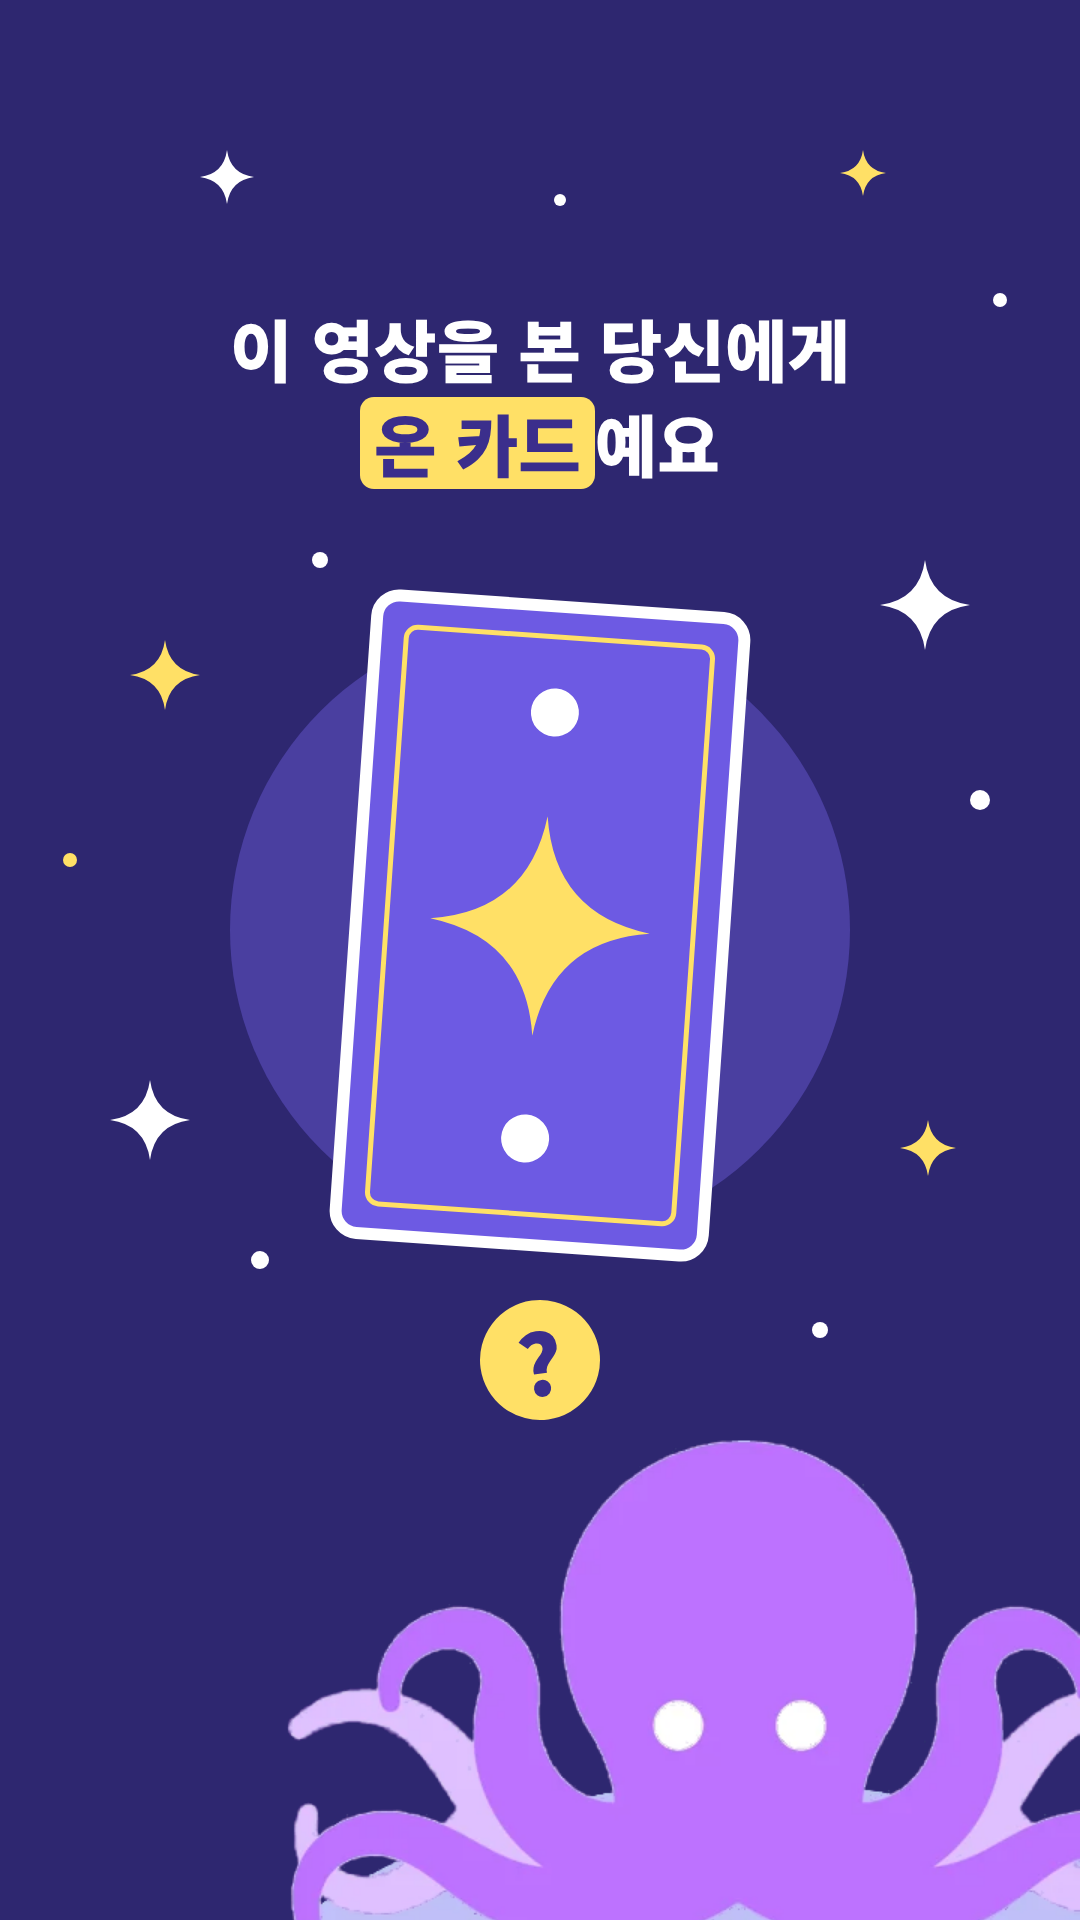
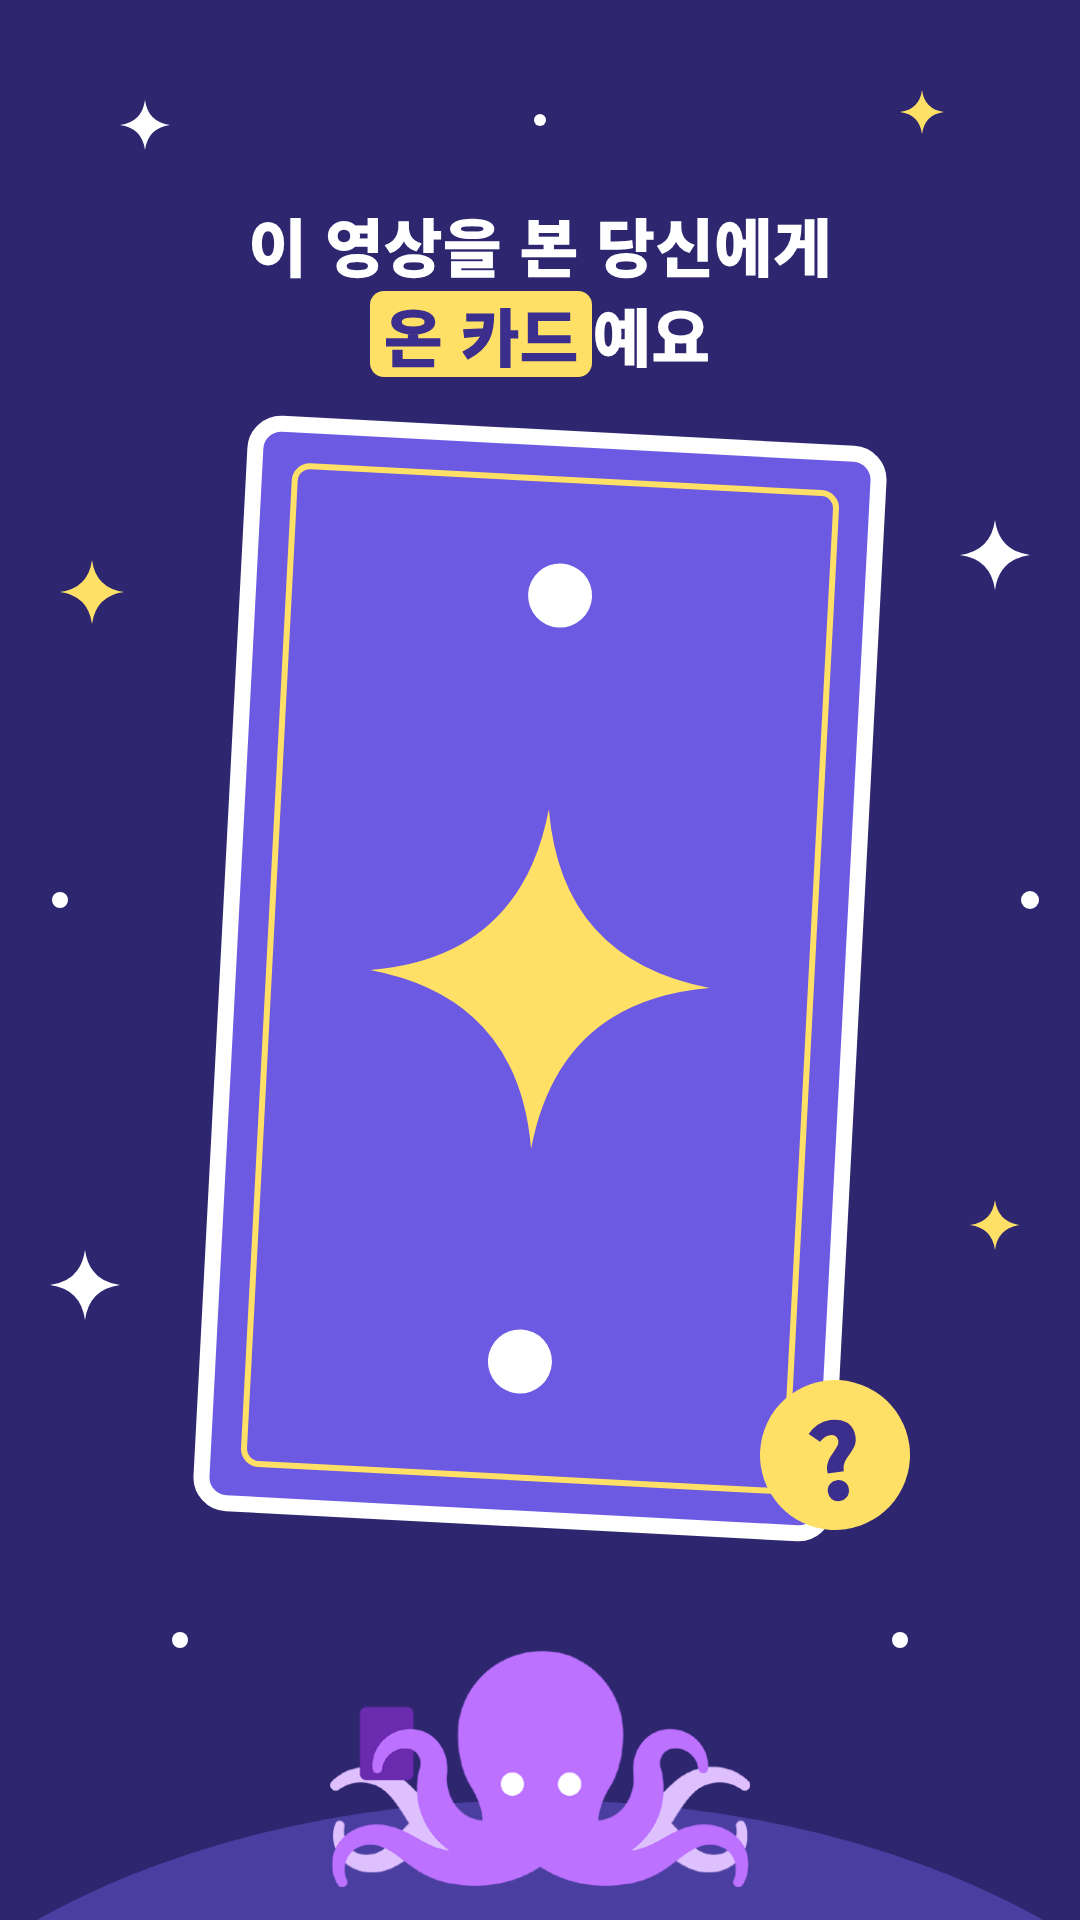
릴스 '별' 편: 타로카드를 화면 가득 크게, 릴멜은 작게 (4장면)
Claude-Session: https://claude.ai/code/session_01CejgdC5FKbbZMnpaYgrfgJ

diff --git a/promo/src/reel_star_02_reveal.html b/promo/src/reel_star_02_reveal.html
@@ -1,43 +1,26 @@
 <!doctype html>
 <html lang="ko"><head><meta charset="utf-8">
-<link rel="stylesheet" href="base.css">
+<link rel="stylesheet" href="base.css"><link rel="stylesheet" href="flat.css">
 <style>
-/* 릴스 '별' 편 · 6–9초 장면 (카드 공개 직후) · 1080×1920 · 플랫 디자인 (그라데이션·그림자 없음) */
-.f{position:relative;width:1080px;height:1920px;overflow:hidden;background:#CEF0FF}
-.hill{position:absolute;left:0;bottom:-470px;width:1080px}
-.top{position:absolute;top:250px;left:0;right:0;text-align:center}
-.pill{display:inline-block;padding:16px 38px;background:#FFF;border-radius:999px;font-size:36px;font-weight:800;color:var(--ink)}
-/* 카드 뒤 단색 원 + 기울인 보라 판 */
-.disc{position:absolute;left:50%;top:400px;width:640px;height:640px;margin-left:-320px;border-radius:50%;background:#FFF5C2}
-.plate{position:absolute;left:50%;top:410px;width:380px;height:651px;margin-left:-170px;border-radius:28px;background:var(--octo);transform:rotate(6deg)}
-.card{position:absolute;left:50%;top:390px;width:360px;margin-left:-190px;transform:rotate(-4deg)}
-.card .tcard{border-width:12px;border-radius:26px;box-shadow:none}
-.title{position:absolute;top:1095px;left:0;right:0;text-align:center}
-.num{display:inline-block;padding:6px 22px;background:var(--ink);border-radius:999px;font-size:30px;font-weight:800;letter-spacing:.2em;color:#FFF}
-.name{margin-top:4px;font-size:128px;line-height:1.15;font-weight:900;color:var(--ink)}
-.msg{position:absolute;top:1300px;z-index:2;left:90px;right:90px;text-align:center;font-size:44px;line-height:1.6;font-weight:800;color:var(--ink)}
-.msg .mk{display:inline-block;padding:0 14px;background:#FFE066;border-radius:14px;line-height:1.35}
-svg.s{position:absolute}
+/* 릴스 '별' 편 · 4–9초: 카드 공개 (카드를 화면 가득) */
+.top{top:180px}
+.plate{position:absolute;left:50%;top:330px;width:640px;height:1097px;margin-left:-300px;border-radius:34px;background:var(--octo);transform:rotate(5deg)}
+.card{top:300px;width:640px;--r:-3deg}
+.title{position:absolute;top:1450px;left:0;right:0;text-align:center;font-size:0}
+.num{display:inline-block;vertical-align:middle;padding:8px 24px;background:var(--ink);border-radius:999px;font-size:34px;font-weight:800;letter-spacing:.15em;color:#FFF}
+.name{display:inline-block;vertical-align:middle;margin-left:22px;font-size:104px;line-height:1.1;font-weight:900;color:var(--ink)}
+.msg{position:absolute;top:1580px;left:0;right:0;text-align:center;font-size:46px;font-weight:800;color:var(--ink);z-index:2}
 </style></head><body>
 <div class="f" id="frame">
-  <!-- 단색 반짝이 (4각 별) · 점 -->
-  <svg class="s" style="left:120px;top:430px" width="70" height="70" viewBox="0 0 10 10"><path d="M5 0Q5.6 4.4 10 5Q5.6 5.6 5 10Q4.4 5.6 0 5Q4.4 4.4 5 0z" fill="#FFD43B"/></svg>
-  <svg class="s" style="left:880px;top:360px" width="96" height="96" viewBox="0 0 10 10"><path d="M5 0Q5.6 4.4 10 5Q5.6 5.6 5 10Q4.4 5.6 0 5Q4.4 4.4 5 0z" fill="#FFF"/></svg>
-  <svg class="s" style="left:900px;top:860px" width="56" height="56" viewBox="0 0 10 10"><path d="M5 0Q5.6 4.4 10 5Q5.6 5.6 5 10Q4.4 5.6 0 5Q4.4 4.4 5 0z" fill="#FFD43B"/></svg>
-  <svg class="s" style="left:110px;top:900px" width="84" height="84" viewBox="0 0 10 10"><path d="M5 0Q5.6 4.4 10 5Q5.6 5.6 5 10Q4.4 5.6 0 5Q4.4 4.4 5 0z" fill="#FFF"/></svg>
-  <svg class="s" style="left:180px;top:150px" width="60" height="60" viewBox="0 0 10 10"><path d="M5 0Q5.6 4.4 10 5Q5.6 5.6 5 10Q4.4 5.6 0 5Q4.4 4.4 5 0z" fill="#FFF"/></svg>
-  <svg class="s" style="left:820px;top:140px" width="50" height="50" viewBox="0 0 10 10"><path d="M5 0Q5.6 4.4 10 5Q5.6 5.6 5 10Q4.4 5.6 0 5Q4.4 4.4 5 0z" fill="#FFD43B"/></svg>
-  <svg class="s" style="left:0;top:0" width="1080" height="1100">
-    <circle cx="300" cy="380" r="9" fill="#FFF"/><circle cx="960" cy="560" r="11" fill="#FFF"/><circle cx="70" cy="690" r="8" fill="#FFD43B"/>
-    <circle cx="1000" cy="250" r="8" fill="#FFF"/><circle cx="250" cy="1010" r="10" fill="#FFF"/><circle cx="860" cy="1030" r="8" fill="#FFF"/>
-  </svg>
-
   <div class="top"><span class="pill">🐙 릴멜이 고른 오늘의 카드</span></div>
-  <div class="disc"></div>
   <div class="plate"></div>
-  <div class="card"><img class="tcard" src="../../images/tr17.jpg" alt="별 카드"></div>
-  <div class="title"><span class="num">XVII</span><div class="name">별</div></div>
-  <p class="msg">힘든 시간이 지나고<br><span class="mk">다시 희망이 차오르는</span> 카드예요</p>
-  <img class="hill" src="hill.png" alt="">
+  <div class="big card"><img class="tcard" src="cards/tr17@2x.jpg" alt="별 카드"></div>
+  <div class="title"><span class="num">XVII</span><span class="name">별</span></div>
+  <p class="msg"><span class="mk">다시 희망이 차오르는</span> 카드예요</p>
+  <div class="mound"></div>
+  <img class="octo" src="../../images/mm01.png" alt="" style="top:1690px;width:360px;margin-left:-180px">
 </div>
+<script src="sparkle.js"></script>
+<script>sparkles([[50,420,64,'#FFD43B'],[970,380,70,'#FFF'],[980,1250,50,'#FFD43B'],[40,1200,70,'#FFF'],[110,90,50,'#FFF'],[910,80,44,'#FFD43B']],
+ [[60,800,8,'#FFF'],[1030,820,9,'#FFF'],[200,1720,8,'#FFF'],[880,1720,8,'#FFF']])</script>
 </body></html>

diff --git a/promo/src/reel_star_04_cta.html b/promo/src/reel_star_04_cta.html
@@ -2,32 +2,38 @@
 <html lang="ko"><head><meta charset="utf-8">
 <link rel="stylesheet" href="base.css"><link rel="stylesheet" href="flat.css">
 <style>
-/* 릴스 '별' 편 · 12–15초: 설치 유도 */
-.q{position:absolute;top:240px;left:0;right:0;text-align:center;font-size:76px;line-height:1.35;font-weight:900;color:var(--ink)}
-.deck{position:absolute;top:530px;left:0;right:0;display:flex;justify-content:center;gap:30px}
-.deck span{width:250px;text-align:center}
-.deck span:nth-child(1){transform:rotate(-6deg) translateY(24px)}.deck span:nth-child(3){transform:rotate(6deg) translateY(24px)}
-.deck .tcard{border-width:10px;border-radius:20px}
-.deck b{display:inline-block;margin-top:22px;padding:6px 24px;border-radius:999px;background:#FFF;font-size:32px;font-weight:800;color:var(--ink)}
-.deck span:nth-child(2) b{background:var(--ink);color:#FFF}
-.app{position:absolute;top:1130px;left:0;right:0;text-align:center}
+/* 릴스 '별' 편 · 12–15초: 설치 유도 (카드 3장을 크게 부채꼴로) */
+.q{position:absolute;top:170px;left:0;right:0;text-align:center;font-size:72px;line-height:1.35;font-weight:900;color:var(--ink)}
+.fan{position:absolute;top:450px;left:0;right:0;height:900px}
+.fan span{position:absolute;width:360px;left:50%;text-align:center}
+.fan .l{margin-left:-500px;top:90px;transform:rotate(-7deg)}
+.fan .l b{left:42%}
+.fan .r{margin-left:140px;top:90px;transform:rotate(7deg)}
+.fan .r b{left:58%}
+.fan .c{margin-left:-230px;width:460px;top:0;z-index:2}
+.fan .tcard{border-width:12px;border-radius:26px}
+.fan b{position:absolute;left:50%;bottom:-30px;transform:translateX(-50%);padding:8px 28px;border-radius:999px;background:#FFF;font-size:34px;font-weight:800;color:var(--ink);white-space:nowrap}
+.fan .c b{background:var(--ink);color:#FFF}
+.app{position:absolute;top:1330px;left:0;right:0;text-align:center}
 .app .badge{font-size:40px;padding:12px 38px 12px 12px}.app .badge img{width:80px;height:80px}
-.cta{position:absolute;top:1270px;left:0;right:0;text-align:center}
+.cta{position:absolute;top:1460px;left:0;right:0;text-align:center}
 .play{border-color:#000}
 .free{position:absolute;left:720px;top:-26px;padding:8px 22px;background:#FFE066;border-radius:999px;font-size:30px;font-weight:900;color:var(--ink);transform:rotate(8deg)}
+.octo{left:auto;right:-30px;margin:0;top:1660px;width:340px}
 </style></head><body>
 <div class="f" id="frame">
   <p class="q">내 과거 · 현재 · 미래는<br>어떤 카드일까?</p>
-  <div class="deck">
-    <span><img class="tcard" src="../../images/tr1.jpg" alt="마법사"><b>과거</b></span>
-    <span><img class="tcard" src="../../images/tr17.jpg" alt="별"><b>현재</b></span>
-    <span><img class="tcard" src="../../images/tr21.jpg" alt="세계"><b>미래</b></span>
+  <div class="fan">
+    <span class="l"><img class="tcard" src="cards/tr1@2x.jpg" alt="마법사"><b>과거</b></span>
+    <span class="r"><img class="tcard" src="cards/tr21@2x.jpg" alt="세계"><b>미래</b></span>
+    <span class="c"><img class="tcard" src="cards/tr17@2x.jpg" alt="별"><b>현재</b></span>
   </div>
   <div class="app"><span class="badge"><img src="../../images/icon-192.png" alt="">릴멜의 타로카드</span></div>
   <div class="cta"><span class="play"><svg viewBox="0 0 30 34"><path d="M1 1l17 16L1 33z" fill="#00D7FE"/><path d="M1 1l22 12.5L18 17z" fill="#00F076"/><path d="M1 33l22-12.5L18 17z" fill="#F83C4C"/><path d="M23 13.5l6 3.5-6 3.5-5-3.5z" fill="#FFCE00"/></svg><span><small>다운로드하기</small><strong>Google Play</strong></span></span><span class="free">무료!</span></div>
-  <img class="hill" src="hill.png" alt="">
+  <div class="mound"></div>
+  <img class="octo" src="../../images/mm01.png" alt="">
 </div>
 <script src="sparkle.js"></script>
-<script>sparkles([[90,470,60,'#FFD43B'],[940,450,70,'#FFF'],[120,1180,50,'#FFF'],[930,1150,56,'#FFD43B'],[160,120,50,'#FFF'],[880,110,44,'#FFD43B']],
- [[330,180,8,'#FFF'],[1000,320,8,'#FFF'],[60,330,7,'#FFD43B'],[990,1060,9,'#FFF'],[70,1000,8,'#FFF']])</script>
+<script>sparkles([[50,420,56,'#FFD43B'],[970,400,64,'#FFF'],[110,90,50,'#FFF'],[910,80,44,'#FFD43B'],[90,1400,50,'#FFF']],
+ [[330,130,8,'#FFF'],[1030,300,8,'#FFF'],[60,330,7,'#FFD43B']])</script>
 </body></html>

diff --git a/promo/src/reel_star_01_hook.html b/promo/src/reel_star_01_hook.html
@@ -2,27 +2,27 @@
 <html lang="ko"><head><meta charset="utf-8">
 <link rel="stylesheet" href="base.css"><link rel="stylesheet" href="flat.css">
 <style>
-/* 릴스 '별' 편 · 0–2초 훅: 밤하늘 + 뒷면 카드 */
-.hook{position:absolute;top:300px;left:0;right:0;text-align:center;color:#FFF;font-size:68px;line-height:1.4;font-weight:900}
+/* 릴스 '별' 편 · 0–2초 훅: 밤하늘 + 큰 뒷면 카드 */
+.hook{position:absolute;top:200px;left:0;right:0;text-align:center;color:#FFF;font-size:64px;line-height:1.4;font-weight:900}
 .hook .mk{color:var(--ink)}
-.moon{position:absolute;left:50%;top:620px;width:620px;height:620px;margin-left:-310px;border-radius:50%;background:#4A3FA0}
-.cb{position:absolute;left:50%;top:600px;width:380px;height:651px;margin-left:-190px;transform:rotate(4deg);border-radius:28px;border:12px solid #FFF;background:#6D5AE3;overflow:hidden}
-.cb .in{position:absolute;inset:22px;border:5px solid #FFE066;border-radius:14px}
+.cb{top:430px;width:640px;height:1097px;--r:3deg;border-radius:34px;border:16px solid #FFF;background:#6D5AE3;overflow:hidden}
+.cb .in{position:absolute;inset:30px;border:6px solid #FFE066;border-radius:18px}
 .cb svg{position:absolute;left:50%;top:50%;transform:translate(-50%,-50%)}
-.q{position:absolute;left:50%;top:1300px;margin-left:-60px;width:120px;height:120px;border-radius:50%;background:#FFE066;color:var(--ink);font-size:84px;font-weight:900;line-height:120px;text-align:center;transform:rotate(-8deg)}
+.q{position:absolute;left:760px;top:1380px;width:150px;height:150px;border-radius:50%;background:#FFE066;color:var(--ink);font-size:104px;font-weight:900;line-height:150px;text-align:center;transform:rotate(-8deg)}
+.f.night .mound{background:#4A3FA0}
 </style></head><body>
 <div class="f night" id="frame">
   <p class="hook">이 영상을 본 당신에게<br><span class="mk">온 카드</span>예요</p>
-  <div class="moon"></div>
-  <div class="cb"><div class="in"></div>
-    <svg width="220" height="220" viewBox="0 0 10 10"><path d="M5 0Q5.6 4.4 10 5Q5.6 5.6 5 10Q4.4 5.6 0 5Q4.4 4.4 5 0z" fill="#FFE066"/></svg>
-    <svg width="60" height="60" viewBox="0 0 10 10" style="top:16%"><circle cx="5" cy="5" r="4" fill="#FFF"/></svg>
-    <svg width="60" height="60" viewBox="0 0 10 10" style="top:84%"><circle cx="5" cy="5" r="4" fill="#FFF"/></svg>
+  <div class="big cb"><div class="in"></div>
+    <svg width="340" height="340" viewBox="0 0 10 10"><path d="M5 0Q5.6 4.4 10 5Q5.6 5.6 5 10Q4.4 5.6 0 5Q4.4 4.4 5 0z" fill="#FFE066"/></svg>
+    <svg width="80" height="80" viewBox="0 0 10 10" style="top:14%"><circle cx="5" cy="5" r="4" fill="#FFF"/></svg>
+    <svg width="80" height="80" viewBox="0 0 10 10" style="top:86%"><circle cx="5" cy="5" r="4" fill="#FFF"/></svg>
   </div>
   <div class="q">?</div>
-  <img class="hill" src="hill.png" alt="">
+  <div class="mound"></div>
+  <img class="octo" src="../../images/mm01.png" alt="">
 </div>
 <script src="sparkle.js"></script>
-<script>sparkles([[130,640,70,'#FFE066'],[880,560,90,'#FFF'],[900,1120,56,'#FFE066'],[110,1080,80,'#FFF'],[200,150,54,'#FFF'],[840,150,46,'#FFE066']],
- [[320,560,8,'#FFF'],[980,800,10,'#FFF'],[70,860,7,'#FFE066'],[1000,300,7,'#FFF'],[260,1260,9,'#FFF'],[820,1330,8,'#FFF'],[560,200,6,'#FFF']])</script>
+<script>sparkles([[60,560,64,'#FFE066'],[960,520,70,'#FFF'],[970,1200,50,'#FFE066'],[50,1250,70,'#FFF'],[120,100,50,'#FFF'],[900,90,44,'#FFE066']],
+ [[60,900,8,'#FFF'],[1030,900,9,'#FFF'],[540,120,6,'#FFF'],[180,1640,8,'#FFF'],[900,1640,8,'#FFF']])</script>
 </body></html>

diff --git a/promo/src/reel_star_03_message.html b/promo/src/reel_star_03_message.html
@@ -2,29 +2,24 @@
 <html lang="ko"><head><meta charset="utf-8">
 <link rel="stylesheet" href="base.css"><link rel="stylesheet" href="flat.css">
 <style>
-/* 릴스 '별' 편 · 9–12초: 릴멜의 한마디 */
-.disc{position:absolute;left:560px;top:380px;width:420px;height:420px;border-radius:50%;background:#FFF5C2}
-.card{position:absolute;left:600px;top:370px;width:280px;transform:rotate(8deg)}
-.card .tcard{border-width:10px;border-radius:22px}
-.tag{position:absolute;left:110px;top:440px;font-size:34px;font-weight:800;color:var(--accent);letter-spacing:.1em}
-.ttl{position:absolute;left:110px;top:490px;font-size:96px;line-height:1.15;font-weight:900;color:var(--ink)}
-.ttl small{display:block;font-size:40px;font-weight:700;color:var(--mute);margin-top:10px}
-.bub{position:absolute;left:90px;right:90px;top:940px;padding:56px 60px 60px;background:#FFF;border-radius:56px}
-.bub::after{content:"";position:absolute;right:260px;bottom:-46px;border-left:34px solid transparent;border-right:34px solid transparent;border-top:48px solid #FFF}
+/* 릴스 '별' 편 · 9–12초: 큰 카드 위에 릴멜의 한마디 */
+.top{top:160px}
+.card{top:270px;width:620px;--r:4deg}
+.bub{position:absolute;left:70px;right:70px;top:1180px;padding:44px 52px 50px;background:#FFF;border-radius:52px;z-index:2}
+.bub::after{content:"";position:absolute;left:50%;margin-left:-34px;bottom:-46px;border-left:34px solid transparent;border-right:34px solid transparent;border-top:48px solid #FFF}
 .who{display:inline-block;padding:8px 26px;background:var(--octo);border-radius:999px;color:#FFF;font-size:32px;font-weight:800}
-.line{margin-top:26px;font-size:62px;line-height:1.45;font-weight:900;color:var(--ink)}
+.kw{display:inline-block;margin-left:12px;padding:8px 22px;background:#FFF5C2;border-radius:999px;color:var(--ink);font-size:30px;font-weight:800}
+.line{margin-top:22px;font-size:60px;line-height:1.45;font-weight:900;color:var(--ink)}
 </style></head><body>
 <div class="f" id="frame">
-  <div class="top" style="left:110px;right:auto;top:240px"><span class="pill">🐙 릴멜의 한마디</span></div>
-  <div class="disc"></div>
-  <div class="card"><img class="tcard" src="../../images/tr17.jpg" alt="별 카드"></div>
-  <p class="tag">XVII</p>
-  <p class="ttl">별<small>희망 · 회복 · 치유</small></p>
-  <div class="bub"><span class="who">릴멜</span>
+  <div class="top"><span class="pill">🐙 릴멜의 한마디</span></div>
+  <div class="big card"><img class="tcard" src="cards/tr17@2x.jpg" alt="별 카드"></div>
+  <div class="bub"><span class="who">릴멜</span><span class="kw">별 · 희망 · 회복</span>
     <p class="line">요즘 많이 지쳤죠?<br>이제 <span class="mk">채워질 차례</span>예요.</p></div>
-  <img class="hill" src="hill.png" alt="">
+  <div class="mound"></div>
+  <img class="octo" src="../../images/mm01.png" alt="">
 </div>
 <script src="sparkle.js"></script>
-<script>sparkles([[70,140,60,'#FFF'],[940,200,50,'#FFD43B'],[500,640,64,'#FFD43B'],[960,760,70,'#FFF'],[60,760,46,'#FFD43B']],
- [[520,190,8,'#FFF'],[1010,560,9,'#FFF'],[640,250,7,'#FFD43B'],[90,1500,9,'#FFF'],[200,1380,7,'#FFF']])</script>
+<script>sparkles([[50,380,64,'#FFD43B'],[970,330,70,'#FFF'],[980,1050,50,'#FFD43B'],[40,1000,70,'#FFF'],[910,70,44,'#FFD43B']],
+ [[60,760,8,'#FFF'],[1030,760,9,'#FFF'],[150,1700,8,'#FFF'],[930,1700,8,'#FFF']])</script>
 </body></html>

diff --git a/promo/src/flat.css b/promo/src/flat.css
@@ -7,3 +7,8 @@
 .mk{display:inline-block;padding:0 14px;background:#FFE066;border-radius:14px;line-height:1.35}
 .tcard{box-shadow:none}
 svg.s{position:absolute}
+/* 하단: 단색 언덕 + 카드 든 릴멜 (작게) */
+.mound{position:absolute;left:-200px;right:-200px;top:1800px;height:900px;border-radius:50%;background:#C0C0F8}
+.octo{position:absolute;left:50%;top:1640px;width:420px;margin-left:-210px}
+.big{position:absolute;left:50%;transform:translateX(-50%) rotate(var(--r,0deg))}
+.big .tcard{border-width:14px;border-radius:30px}
